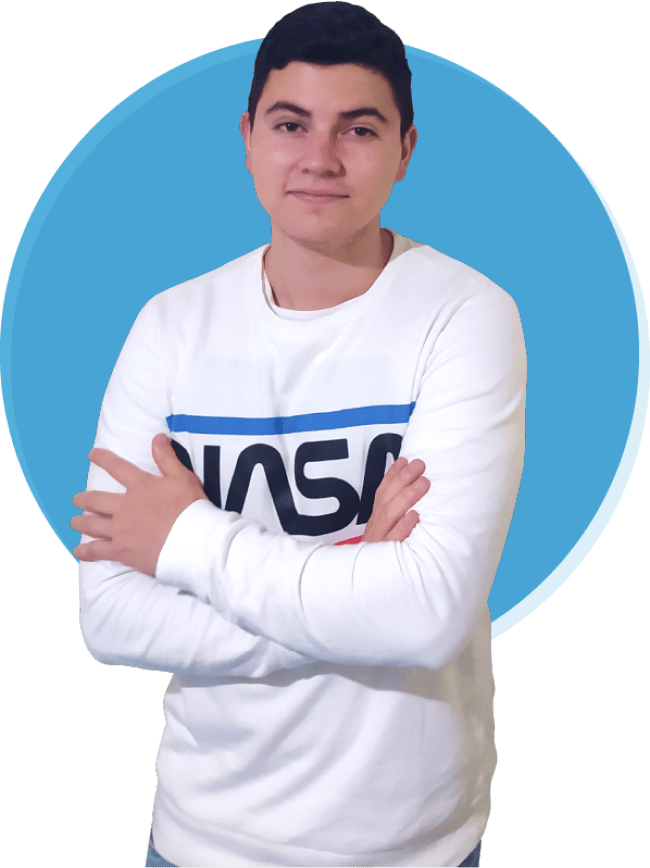
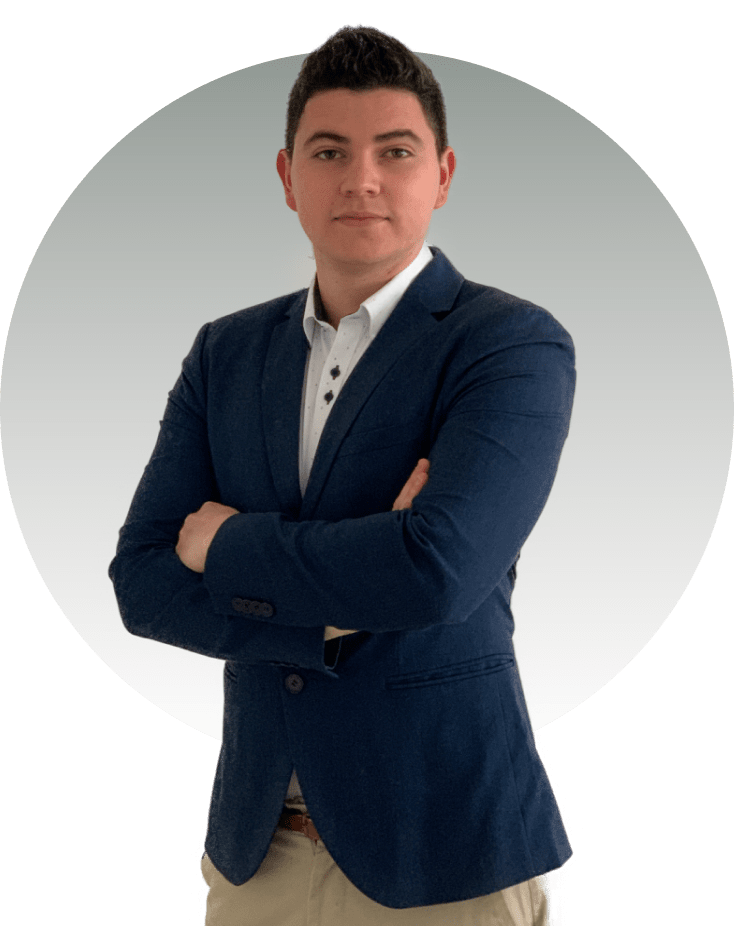
changing profile-img and doing responsive until tablets

diff --git a/src/assets/styles/Main.css b/src/assets/styles/Main.css
@@ -15,6 +15,18 @@
   text-align: center;
 }
 
+.main__title--container h1 {
+  font-size: 2.6rem;
+  font-weight: 500;
+  font-style: normal;
+  line-height: 2.5rem;
+}
+
+.main__paragraph--container h3 {
+  font-size: 1rem;
+  font-weight: 400;
+}
+
 .main__title--container h1:first-child {
   color: #99aecc;
 }
@@ -32,7 +44,7 @@
   margin: 34px 0 20px 0;
 }
 
-.image__container img {
+.profile__image {
   width: 13.75rem;
   border-bottom: 6px #e1e1e1 solid;
 }
@@ -49,16 +61,99 @@
 
 .main__courses--container {
   display: grid;
+  width: 92%;
   margin: 2rem 0;
   grid-template-columns: 1fr 1fr 1fr;
-  gap: 1rem;
+  gap: 0.6rem;
   background: #e1e1e1;
   border-radius: 15px;
-  padding: 1rem;
+  padding: 0.8rem;
   font-size: 12px;
   text-align: center;
 }
 
 .course img {
-  width: 4.3rem;
+  width: 3.7rem;
+}
+
+@media (min-width: 366px) {
+  .main__title--container h1 {
+    font-size: 3rem;
+    line-height: 3rem;
+  }
+  .profile__image {
+    width: 16rem;
+    border-bottom: 6px #e1e1e1 solid;
+  }
+  .main__paragraph--container h3 {
+    font-size: 1.3rem;
+    font-weight: 400;
+  }
+  .main__courses--container {
+    gap: 1rem;
+  }
+
+  .course {
+    font-size: 15px;
+  }
+
+  .course img {
+    width: 4.7rem;
+  }
+}
+
+@media (min-width: 600px) {
+  .main__title--container h1 {
+    font-size: 3.8rem;
+    line-height: 4rem;
+  }
+  .profile__image {
+    width: 24rem;
+    border-bottom: 6px #e1e1e1 solid;
+  }
+  .main__paragraph--container h3 {
+    width: 26rem;
+    font-size: 1.6rem;
+    font-weight: 400;
+  }
+  .main__courses--container {
+    gap: 1rem;
+  }
+
+  .course {
+    font-size: 16px;
+  }
+
+  .course img {
+    width: 7rem;
+  }
+}
+
+@media (min-width: 1024px) {
+  .main__title--container h1 {
+    font-size: 5rem;
+    line-height: 5rem;
+  }
+  .profile__image {
+    width: 40rem;
+    border-bottom: 6px #e1e1e1 solid;
+  }
+  .main__paragraph--container h3 {
+    width: 40rem;
+    font-size: 2rem;
+    font-weight: 400;
+  }
+  .main__courses--container {
+    margin: 5rem 0;
+    padding: 2rem;
+    gap: 1rem;
+  }
+
+  .course {
+    font-size: 1.6rem;
+  }
+
+  .course img {
+    width: 9rem;
+  }
 }

diff --git a/src/assets/styles/Footer.css b/src/assets/styles/Footer.css
@@ -1,11 +1,11 @@
 footer {
   width: 100%;
-  height: 21.125rem;
+  height: 23rem;
   margin: 0;
   padding: 0;
   background: white;
   font-family: "Montserrat";
-  font-size: 12px;
+  font-size: 0.9rem;
   display: flex;
   flex-direction: column;
   justify-content: space-evenly;
@@ -63,6 +63,49 @@ a {
 }
 
 .icon__container img {
-  border-radius: 2.4px;
-  width: 2rem;
+  border-radius: 3px;
+  width: 2.8rem;
+}
+
+@media (min-width: 366px) {
+  footer {
+    font-size: 1rem;
+    height: 26rem;
+  }
+}
+
+@media (min-width: 600px) {
+  footer {
+    font-size: 1.3rem;
+    height: 30rem;
+  }
+  .footer__items--container {
+    gap: 2rem;
+  }
+  .social__media--container {
+    gap: 1.5rem;
+  }
+
+  .icon__container img {
+    border-radius: 5px;
+    width: 4rem;
+  }
+}
+
+@media (min-width: 1024px) {
+  footer {
+    font-size: 1.7rem;
+    height: 43rem;
+  }
+  .footer__items--container {
+    gap: 3rem;
+  }
+  .social__media--container {
+    gap: 1.8rem;
+  }
+
+  .icon__container img {
+    border-radius: 8px;
+    width: 5rem;
+  }
 }

diff --git a/src/assets/styles/Header.css b/src/assets/styles/Header.css
@@ -79,7 +79,7 @@
 
   .header__items--container {
     gap: 1.6rem;
-    font-size: 1.5em;
+    font-size: 1.3em;
   }
 
   .darkMode__button img {
@@ -87,18 +87,18 @@
   }
 
   .darkMode__button {
-    left: 0.6rem;
+    left: 1rem;
     top: 3rem;
     position: absolute;
   }
 }
 
-@media (min-width: 768px) {
+@media (min-width: 600px) {
   .header {
-    padding-top: 18px;
+    padding-top: 19px;
   }
   .header__logo--container img {
-    width: 13.375rem;
+    width: 14rem;
   }
 
   .menu {
@@ -141,21 +141,21 @@
   }
 
   .header__items--container {
-    gap: 1.8rem;
-    font-size: 19px;
+    gap: 2rem;
+    font-size: 1.7rem;
   }
 
   .header__items--container-hide {
-    gap: 1.8rem;
-    font-size: 19px;
+    gap: 2rem;
+    font-size: 1.7rem;
   }
 
   .darkMode__button img {
-    width: 6rem;
+    width: 5.4rem;
   }
 
   .darkMode__button {
-    left: 2rem;
+    left: 3rem;
     top: 3.7rem;
     position: absolute;
   }

diff --git a/src/components/Main/Main.js b/src/components/Main/Main.js
@@ -19,7 +19,11 @@ const Main = () => {
           </h1>
         </div>
         <figure className="image__container">
-          <img src={ProfileImage} alt="foto-santiago" />
+          <img
+            className="profile__image"
+            src={ProfileImage}
+            alt="foto-santiago"
+          />
         </figure>
         <div className="main__paragraph--container">
           <h3>
@@ -29,7 +33,7 @@ const Main = () => {
         <div className="main__courses--container">
           {CourseItems.map((item, index) => {
             return (
-              <figure className="course">
+              <figure key={index} className="course">
                 <img src={item.img} alt="" />
                 <figcaption>{item.title}</figcaption>
               </figure>

diff --git a/src/App.css b/src/App.css
@@ -1,3 +1,5 @@
+@import url("https://fonts.googleapis.com/css2?family=Montserrat:ital,wght@0,200;0,300;0,400;0,500;0,600;0,700;0,800;1,200;1,500;1,800&display=swap");
+
 * {
   margin: 0;
   padding: 0;
